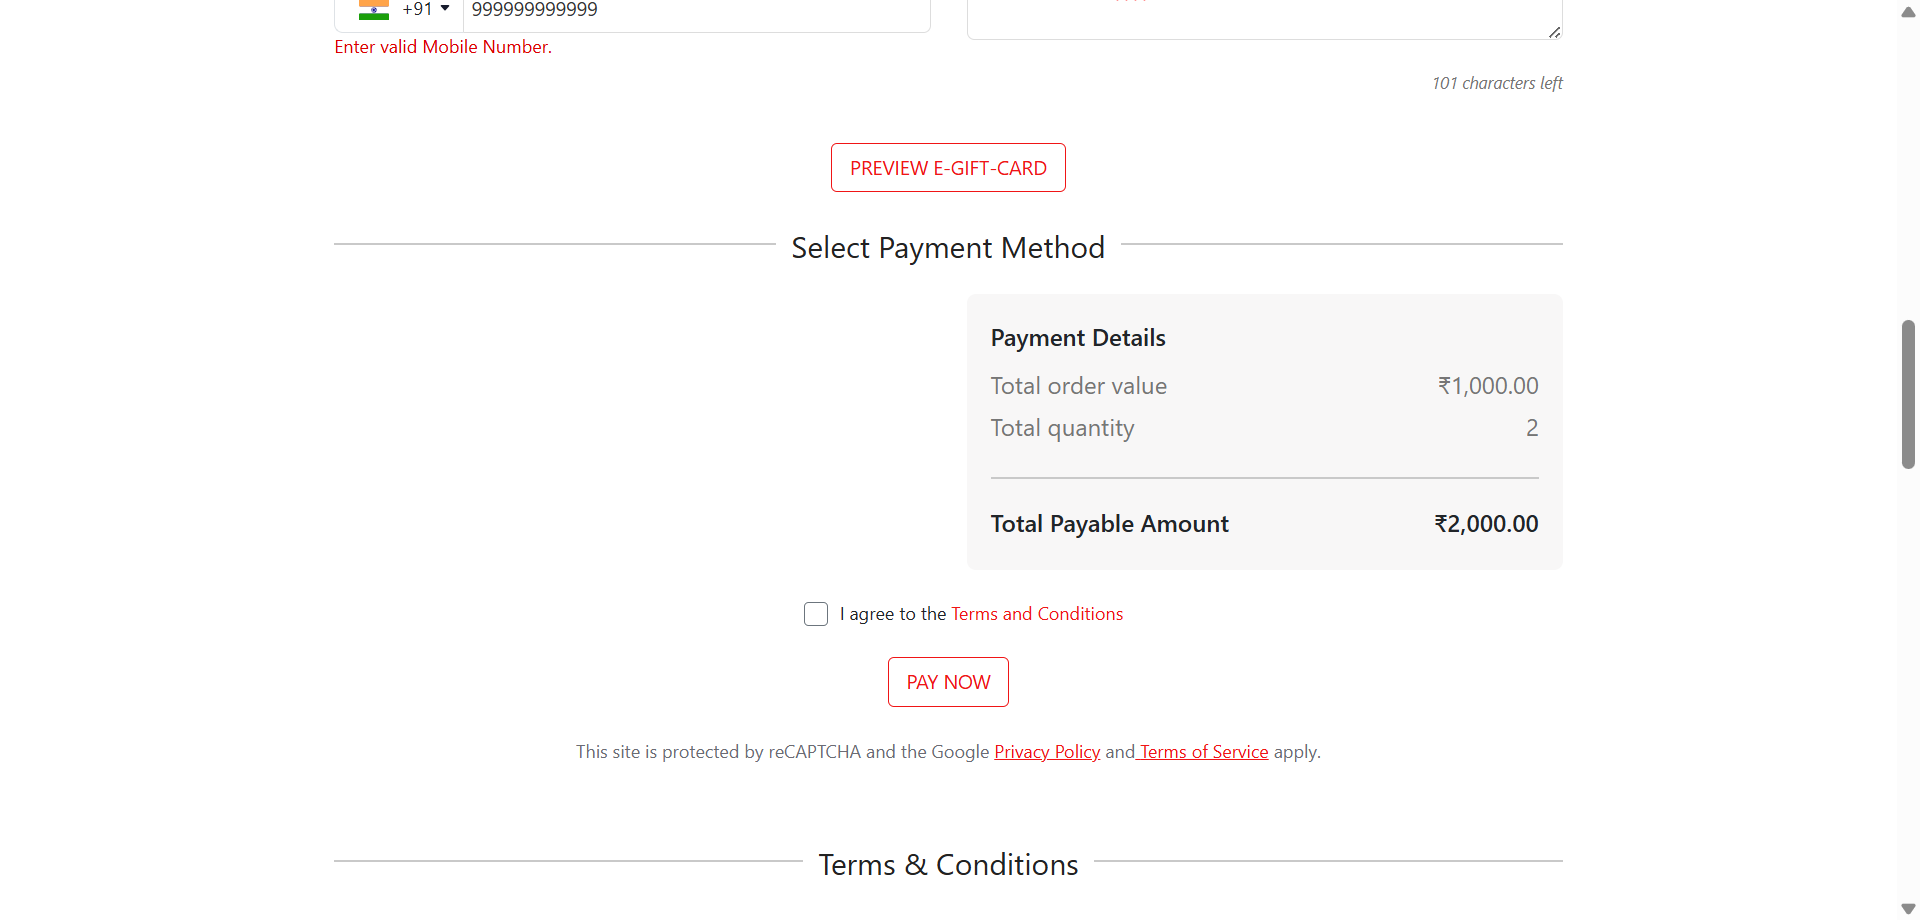
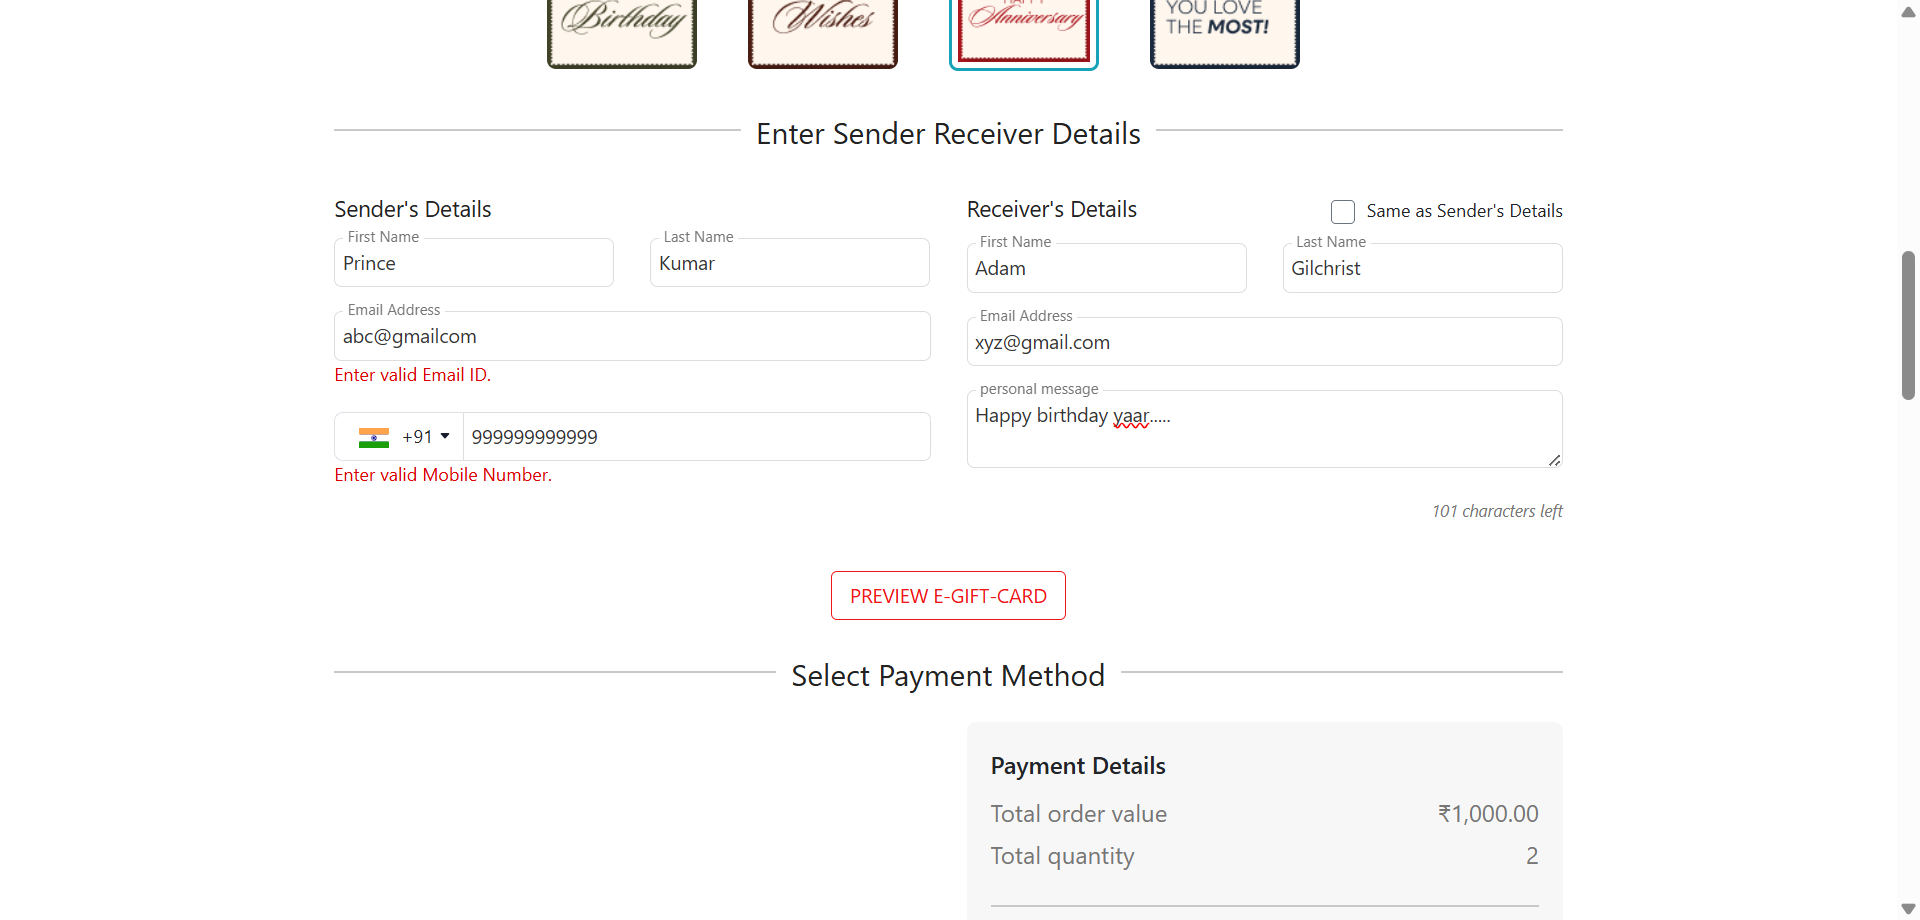
Updated scroll into view method in Giftcard

diff --git a/src/test/java/tests/GiftCardTest.java b/src/test/java/tests/GiftCardTest.java
@@ -3,9 +3,15 @@ package tests;
 import org.example.pages.GiftcardsPage;
 import org.example.utils.DriverManager;
 import org.example.utils.ReqUtils;
+import org.openqa.selenium.By;
+import org.openqa.selenium.WebElement;
+import org.openqa.selenium.support.ui.ExpectedConditions;
+import org.openqa.selenium.support.ui.WebDriverWait;
 import org.testng.Assert;
 import org.testng.annotations.BeforeMethod;
 import org.testng.annotations.Test;
+
+import java.time.Duration;
 
 
 public class GiftCardTest {
@@ -31,7 +37,14 @@ public class GiftCardTest {
         ReqUtils utils=new ReqUtils(DriverManager.getDriver());
         String actualResult=GiftcardsPage.validateEmail();
         String expectedResult="Valid Email ID";
+        WebDriverWait wait=new WebDriverWait(DriverManager.getDriver(), Duration.ofSeconds(20));
         try{
+            WebElement errorMsg = wait.until(
+                    ExpectedConditions.visibilityOfElementLocated(
+                            By.xpath("//div[contains(text(),'Enter valid Email ID')]")
+                    )
+            );
+            utils.scrollIntoView(errorMsg);
             Assert.assertEquals(actualResult,expectedResult,"Email ID validation failed");
 
         }catch (AssertionError e){
@@ -45,7 +58,14 @@ public class GiftCardTest {
         ReqUtils utils=new ReqUtils(DriverManager.getDriver());
         String actualResult=GiftcardsPage.validateMobile();
         String expectedResult="Valid Mobile Number";
+        WebDriverWait wait=new WebDriverWait(DriverManager.getDriver(), Duration.ofSeconds(20));
         try{
+            WebElement errorMsg = wait.until(
+                    ExpectedConditions.visibilityOfElementLocated(
+                            By.xpath("//div[contains(text(),'Enter valid Mobile Number')]")
+                    )
+            );
+            utils.scrollIntoView(errorMsg);
             Assert.assertEquals(actualResult,expectedResult,"Mobile number validation failed");
 
         }catch (AssertionError e){

diff --git a/src/main/java/org/example/pages/GiftcardsPage.java b/src/main/java/org/example/pages/GiftcardsPage.java
@@ -88,11 +88,6 @@ public class GiftcardsPage extends BasePage {
      * Method to fill gift card form and validate email error message
      */
 
-    public static void scrollView(WebElement element) {
-        ((JavascriptExecutor) DriverManager.getDriver())
-                .executeScript("arguments[0].scrollIntoView(true);", element);
-    }
-
     public void giftCardPage() {
 
         // Navigate to Gift Cards page from Home Page
@@ -142,7 +137,6 @@ public class GiftcardsPage extends BasePage {
                             By.xpath("//div[contains(text(),'Enter valid Email ID')]")
                     )
             );
-            scrollView(errorMsg);
             return "Invalid Email ID";
         } catch (TimeoutException e) {
             return "Valid Email ID";
@@ -159,7 +153,6 @@ public class GiftcardsPage extends BasePage {
                             By.xpath("//div[contains(text(),'Enter valid Mobile Number')]")
                     )
             );
-            scrollView(errorMsg);
             return "Invalid Mobile Number";
         } catch (TimeoutException e) {
             return "Valid Mobile Number";

diff --git a/src/test/java/tests/BookShelvesTest.java b/src/test/java/tests/BookShelvesTest.java
@@ -62,6 +62,14 @@ public class BookShelvesTest {
     }
 
     @Test(priority = 5)
+    public void takeScreenShot(){
+        List<WebElement> products = bookPage.getProducts();
+        ReqUtils utils = new ReqUtils(DriverManager.getDriver());
+        utils.scrollIntoView(products.get(0));
+        utils.screenShot("Top_Three_BookShelves");
+    }
+
+    @Test(priority = 6)
     public void navigateToHomePage(){
         String actualTitle = bookPage.navigateToHomePage();
         String expectedTitle = "Buy Furniture Online: Upto 70% off in this Festive Season";

diff --git a/src/main/java/org/example/utils/ReqUtils.java b/src/main/java/org/example/utils/ReqUtils.java
@@ -65,7 +65,7 @@ public class ReqUtils {
     // Scroll
     public void scrollIntoView(WebElement element) {
         ((JavascriptExecutor) driver)
-                .executeScript("arguments[0].scrollIntoView(true);", element);
+                .executeScript("arguments[0].scrollIntoView({block: 'center'});", element);
     }
 
     // Get text
